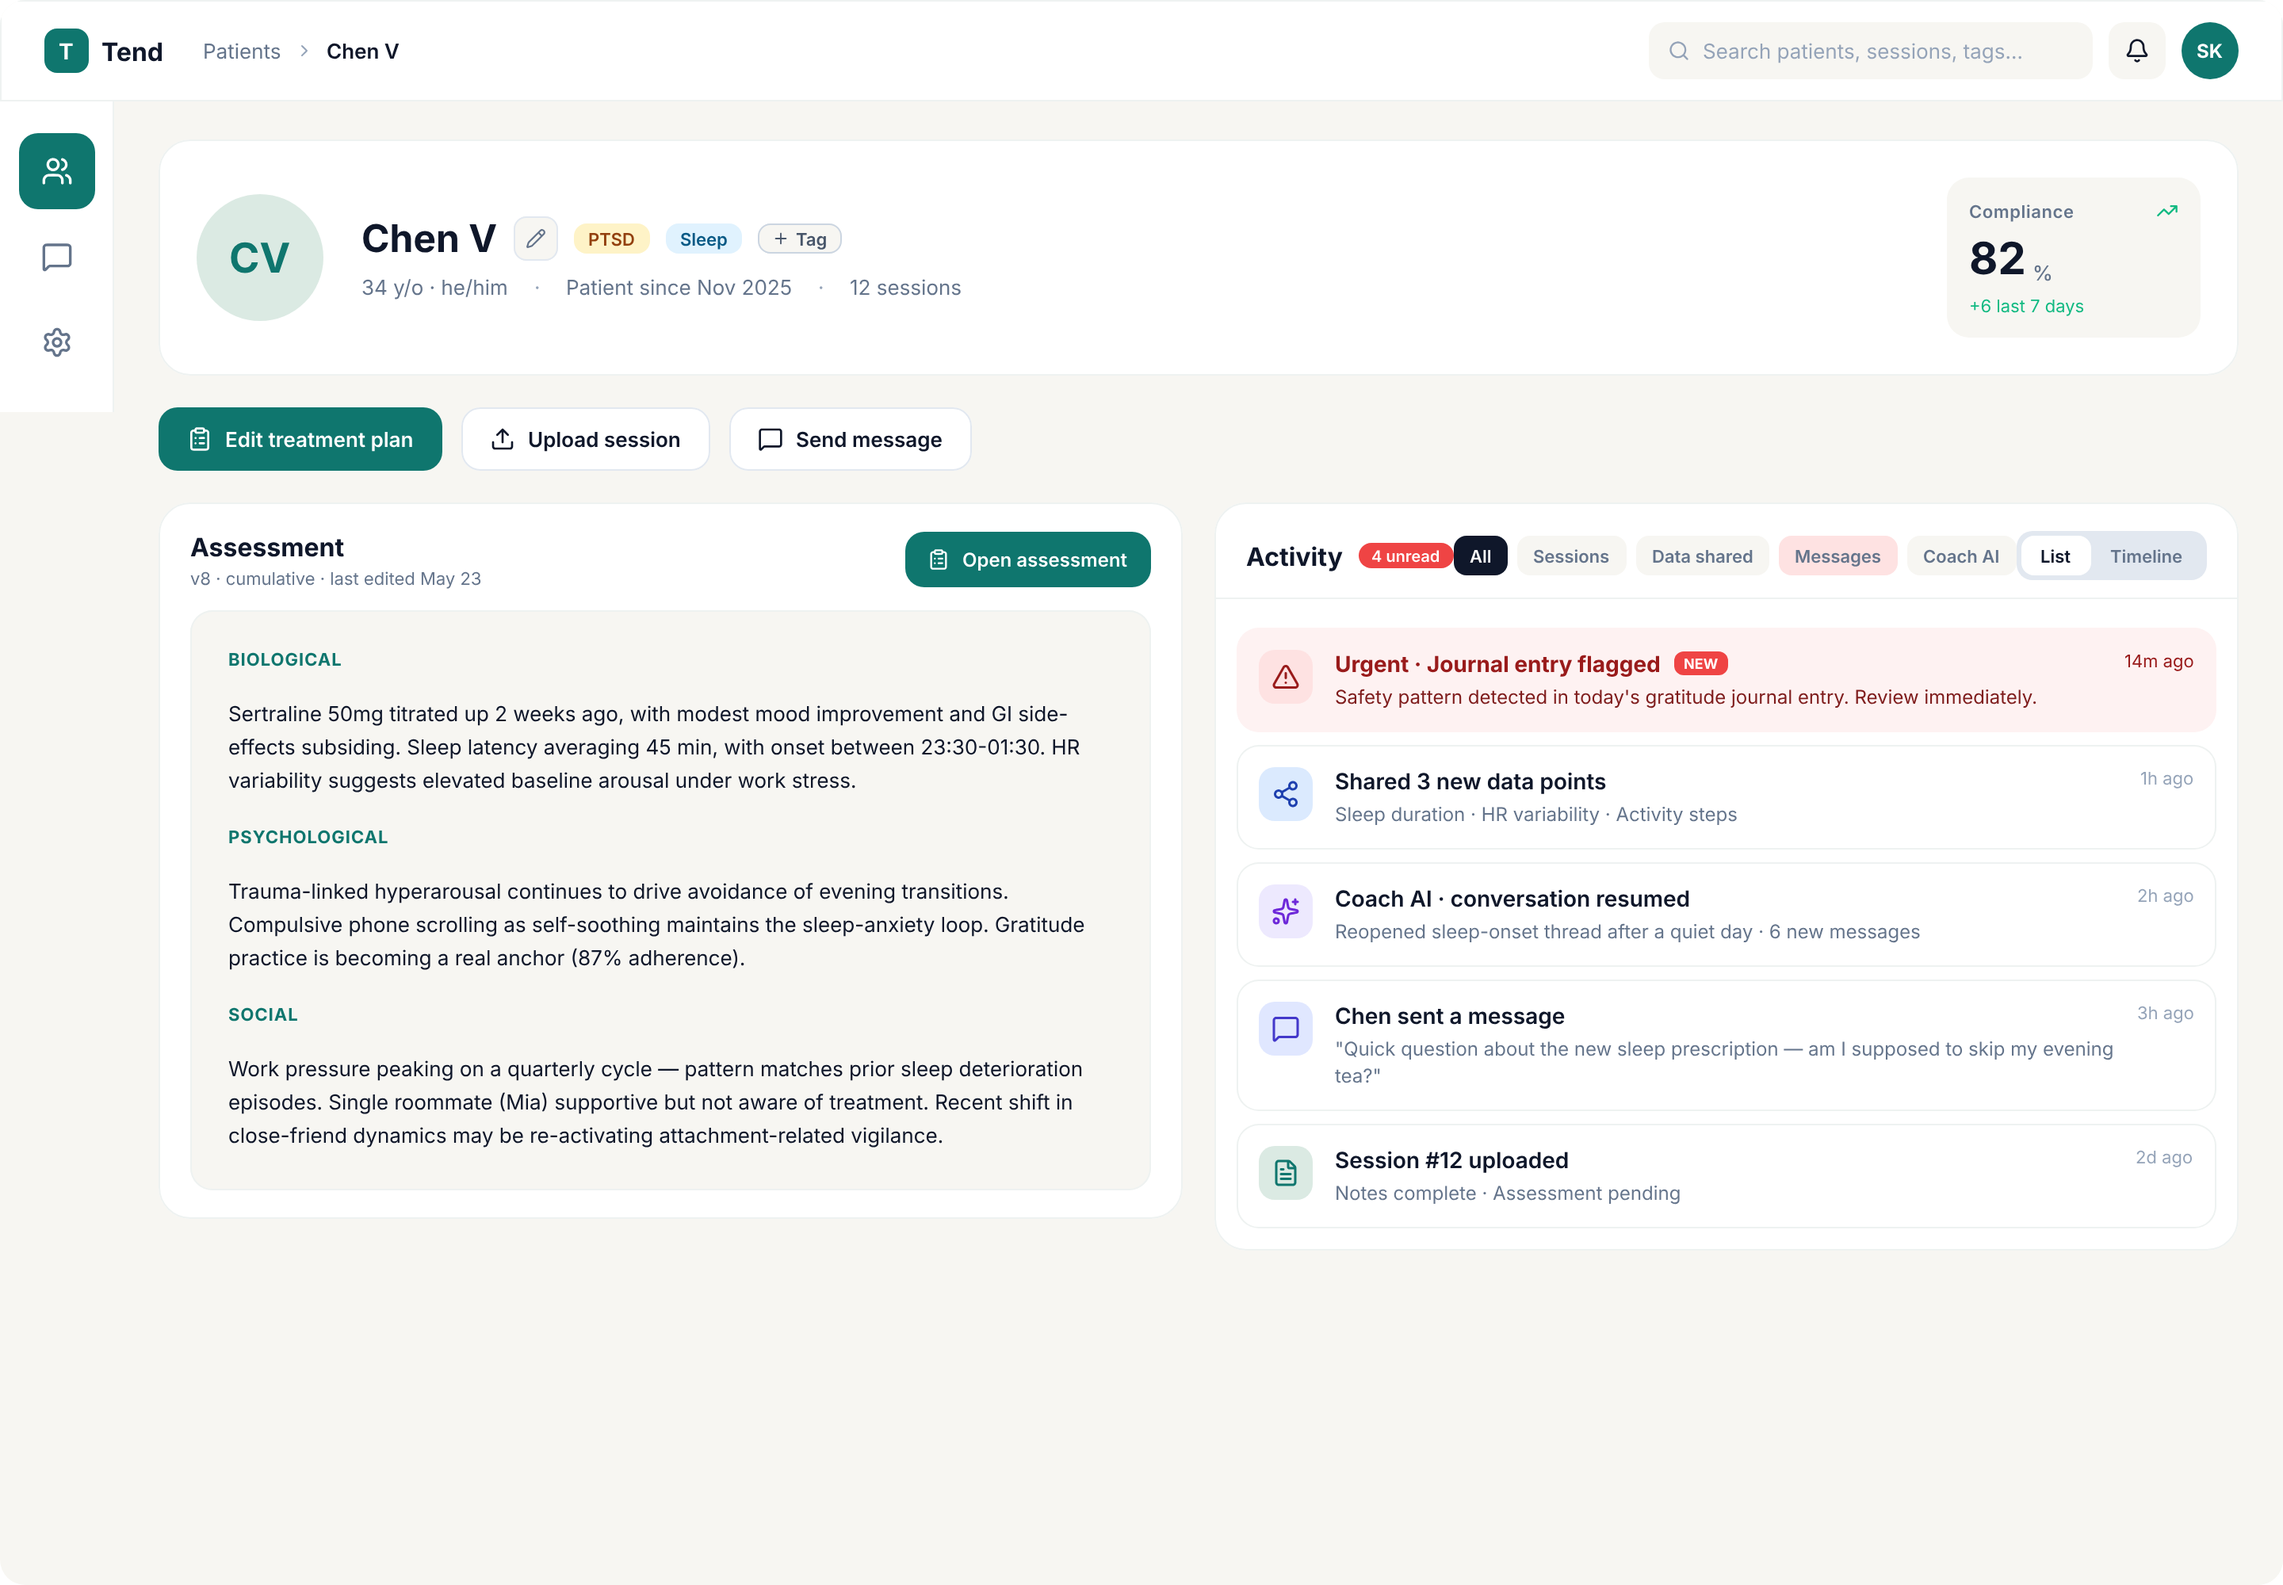
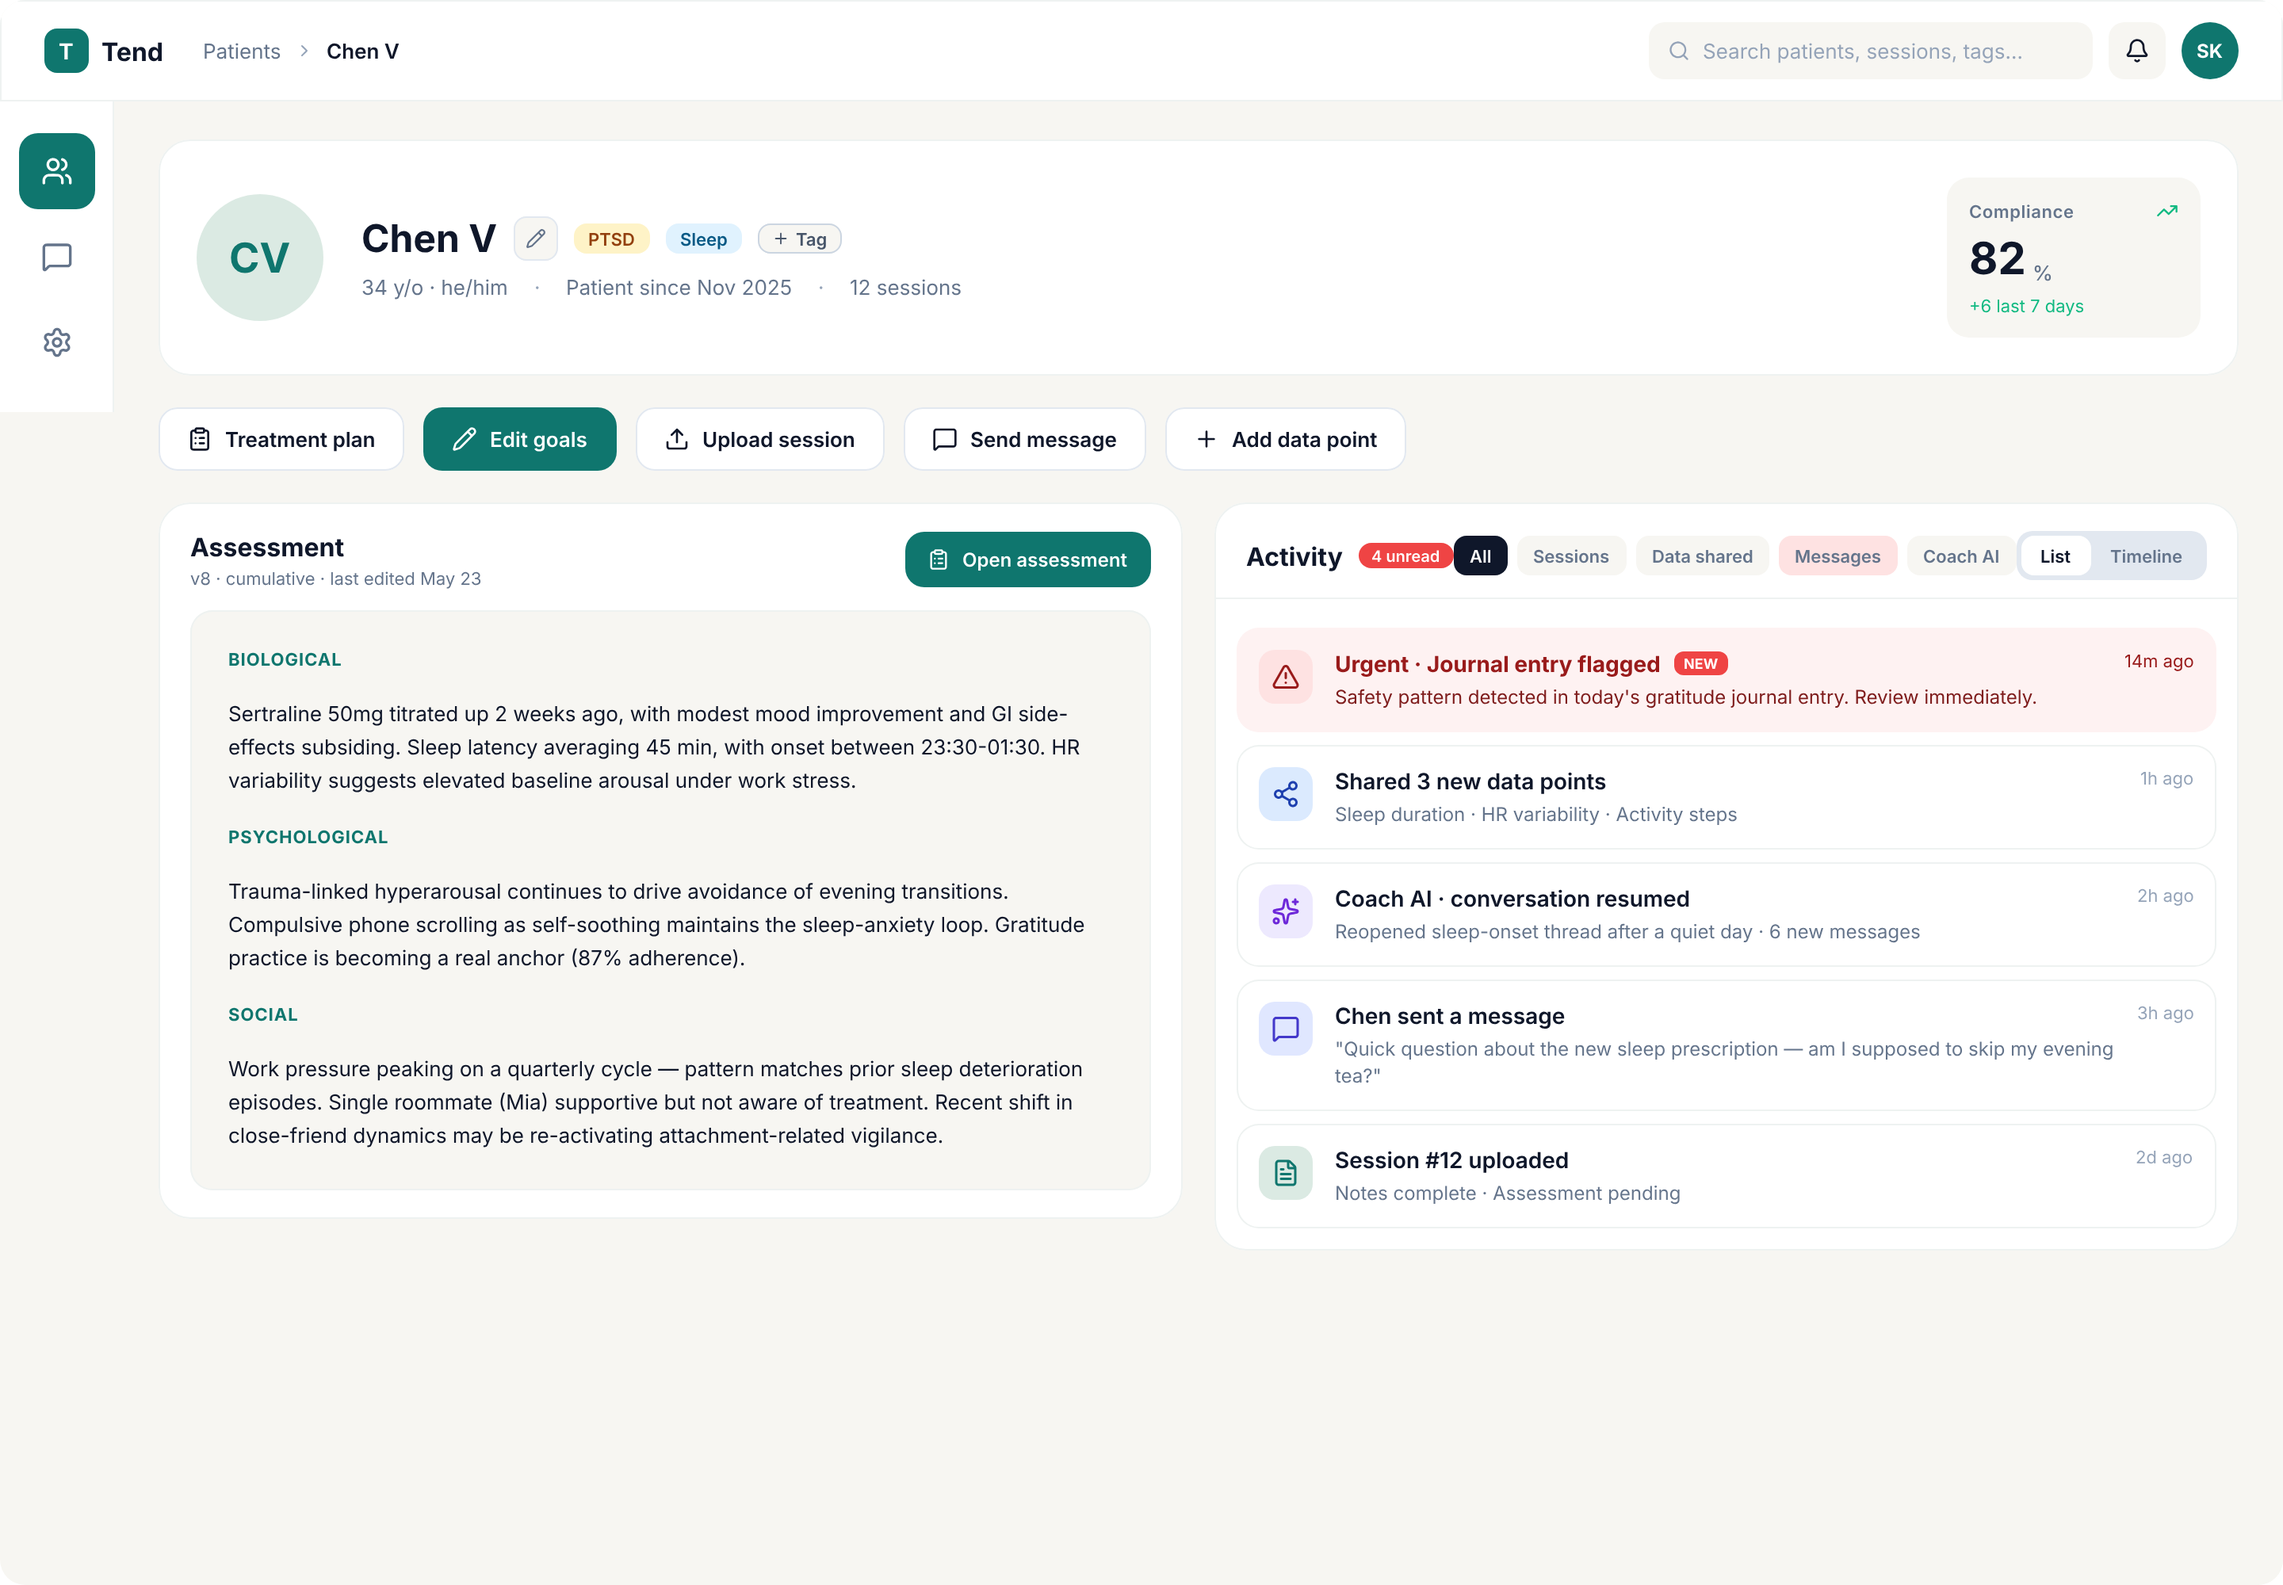
docs(prd): wire three-tier-model screenshots into poc-description
- New images: Whole Life Plan builder + patient view, Extracted/Add Data Point
  modals, session summary (data-points next-up + all-complete).
- Refresh renamed screens: Goals builder, Goal View, patient & web profiles,
  note screen.
- Replace stale session-summary refs (assessment/plan next-up) with the
  new-model frames; add the clinician-mobile locked+unlock variant.

Changed region(s): [[0.0625, 0.248, 0.2812, 0.31], [0.3125, 0.248, 0.4375, 0.279]]

diff --git a/docs/poc-description.md b/docs/poc-description.md
@@ -150,6 +150,7 @@ note that if there is a hard esclation flow in progress (meaning the patient app
 
 ![Clinician Mobile — Patient Profile (Alerts)](./images/clinician-mobile-patient-profile-alerts.png)
 ![Clinician Mobile — Patient Profile (App locked)](./images/clinician-mobile-patient-profile-app-locked.png)
+![Clinician Mobile — Patient profile (locked + unlock)](./images/clinician-mobile-patient-profile-locked-unlock.png)
 
 ### Push notifications
 Triggers for the MVP:
@@ -303,11 +304,15 @@ This modal is opened directly from the note screen, and allows the clinician to 
 the modal contains a button at the bottom for adding data points manually.
 You can also access this modal from the session summary screen directly.
 
+![Clinician Web — Extracted Data Points modal](./images/clinician-web-extracted-data-points-modal.png)
+
 ### Adding Data Points Modal
 
 Clinician can add data points (context about the patient). In the MVP these are limited to text.
 You csn access this modal directly through any session summary page, and 
 This modal is also accessible directly from the patient profile (see details below for exact placement)
+
+![Clinician Web — Add Data Point modal](./images/clinician-web-add-data-point-modal.png)
 
 
 ### Assessment screen
@@ -358,7 +363,7 @@ Page layout — two panes:
 
 **editing** is also possible by clicking the dedicated edit button on each prescription, or the "edit" button in the suggestion card.
 
-![Clinician Web — Treatment Plan Builder](./images/clinician-web-treatment-plan-builder.png)
+![Clinician Web — Goals builder](./images/clinician-web-treatment-plan-builder.png)
 ![Clinician Web — Add prescription (pick type)](./images/clinician-web-add-prescription-pick-type.png)
 ![Clinician Web — Add prescription (Sleep selected)](./images/clinician-web-add-prescription-sleep-selected.png)
 ![Clinician Web — Edit prescription (Sleep)](./images/clinician-web-edit-prescription-sleep.png)
@@ -372,6 +377,8 @@ Page layout — two panes:
 **Left: prescriptions side** — the treatment plan being defined. It is made of pages, you can flip horizontally between them - left and right (with a page indicator at bottom), each with 4 categories. each category is a free text box where the clinician can write the treatment plan objective for that category.
 
 **suggestion engine** simillar to the goal builder.
+
+![Clinician Web — Whole Life Plan builder](./images/clinician-web-whole-life-plan-builder.png)
 
 ### Compliance & progress view
 Patient's compliance score over time.
@@ -392,12 +399,8 @@ Tapping an incomplete stage jumps into that editor (or for the data points, open
 Default view: notes + treatment plan + goals on the left, raw data (transcript + audio if available) + data points related to this session (approved or manually added, and show a pill here to go to the data points approval modal if there are pending data points. clicking it will open the modal where you can approve data points that were extracted from the notes this session. also show a button here to manually add data points - this will open the add data point modal, even though the approval modal also has the "add manually" button) + assessment on the right. The raw data isn't directly shown, but clicking on them opens/downloads.
 Timeline strip at the bottom for jumping between sessions, plus **Next / Previous session** buttons. Pressing **Next** on the most recent session opens the upload screen.
 
-![Clinician Web — Session summary (raw next-up)](./images/clinician-web-session-summary-raw-next-up.png)
-![Clinician Web — Session summary (note next-up)](./images/clinician-web-session-summary-note-next-up.png)
-![Clinician Web — Session summary (assessment next-up)](./images/clinician-web-session-summary-assessment-next-up.png)
-![Clinician Web — Session summary (plan next-up)](./images/clinician-web-session-summary-plan-next-up.png)
-![Clinician Web — Session summary (all stages complete)](./images/clinician-web-session-summary-all-complete.png)
-![Clinician Web — Session summary (Export to EMR menu)](./images/clinician-web-session-summary-export-to-emr-menu.png)
+![Clinician Web — Session summary (data points next-up)](./images/clinician-web-session-summary-data-points-next-up.png)
+![Clinician Web — Session summary (all stages complete · Export to EMR)](./images/clinician-web-session-summary-all-complete.png)
 
 There is a button to export to EMR. it opens a menu with two options: 1. export plain text (for the clinician to copy and paste into an EMR) 2. send to EMR (via the integration, if it is connected.). buttons are shown but not clickable, as EMR integration is not implemented in the MVP.
 
@@ -458,6 +461,8 @@ Access to patient data is strictly limited to authorized personnel on a need-to-
 ### Treatment Plan (Whole life plan) view
 
 A card for each category, populated with the relevant objective as defined by the clinician. scrollable to see all cards.
+
+![Patient Mobile — Whole Life Plan view](./images/patient-mobile-whole-life-plan.png)
 
 ### Settings: Integrations
 Many more integrations than the clinician sees: wearables, health trackers, calendars, journals, etc.
@@ -578,7 +583,7 @@ The trigger is shown explicitly so the patient knows when the action applies —
 
 (future: patient annotations / questions on a specific prescription that get surfaced to the clinician — see Future / Post-MVP)
 
-![Patient Mobile — Treatment Plan](./images/patient-mobile-treatment-plan.png)
+![Patient Mobile — Goal View](./images/patient-mobile-treatment-plan.png)
 
 ### Data sharing
 Settings page with a **master switch** for sharing.
